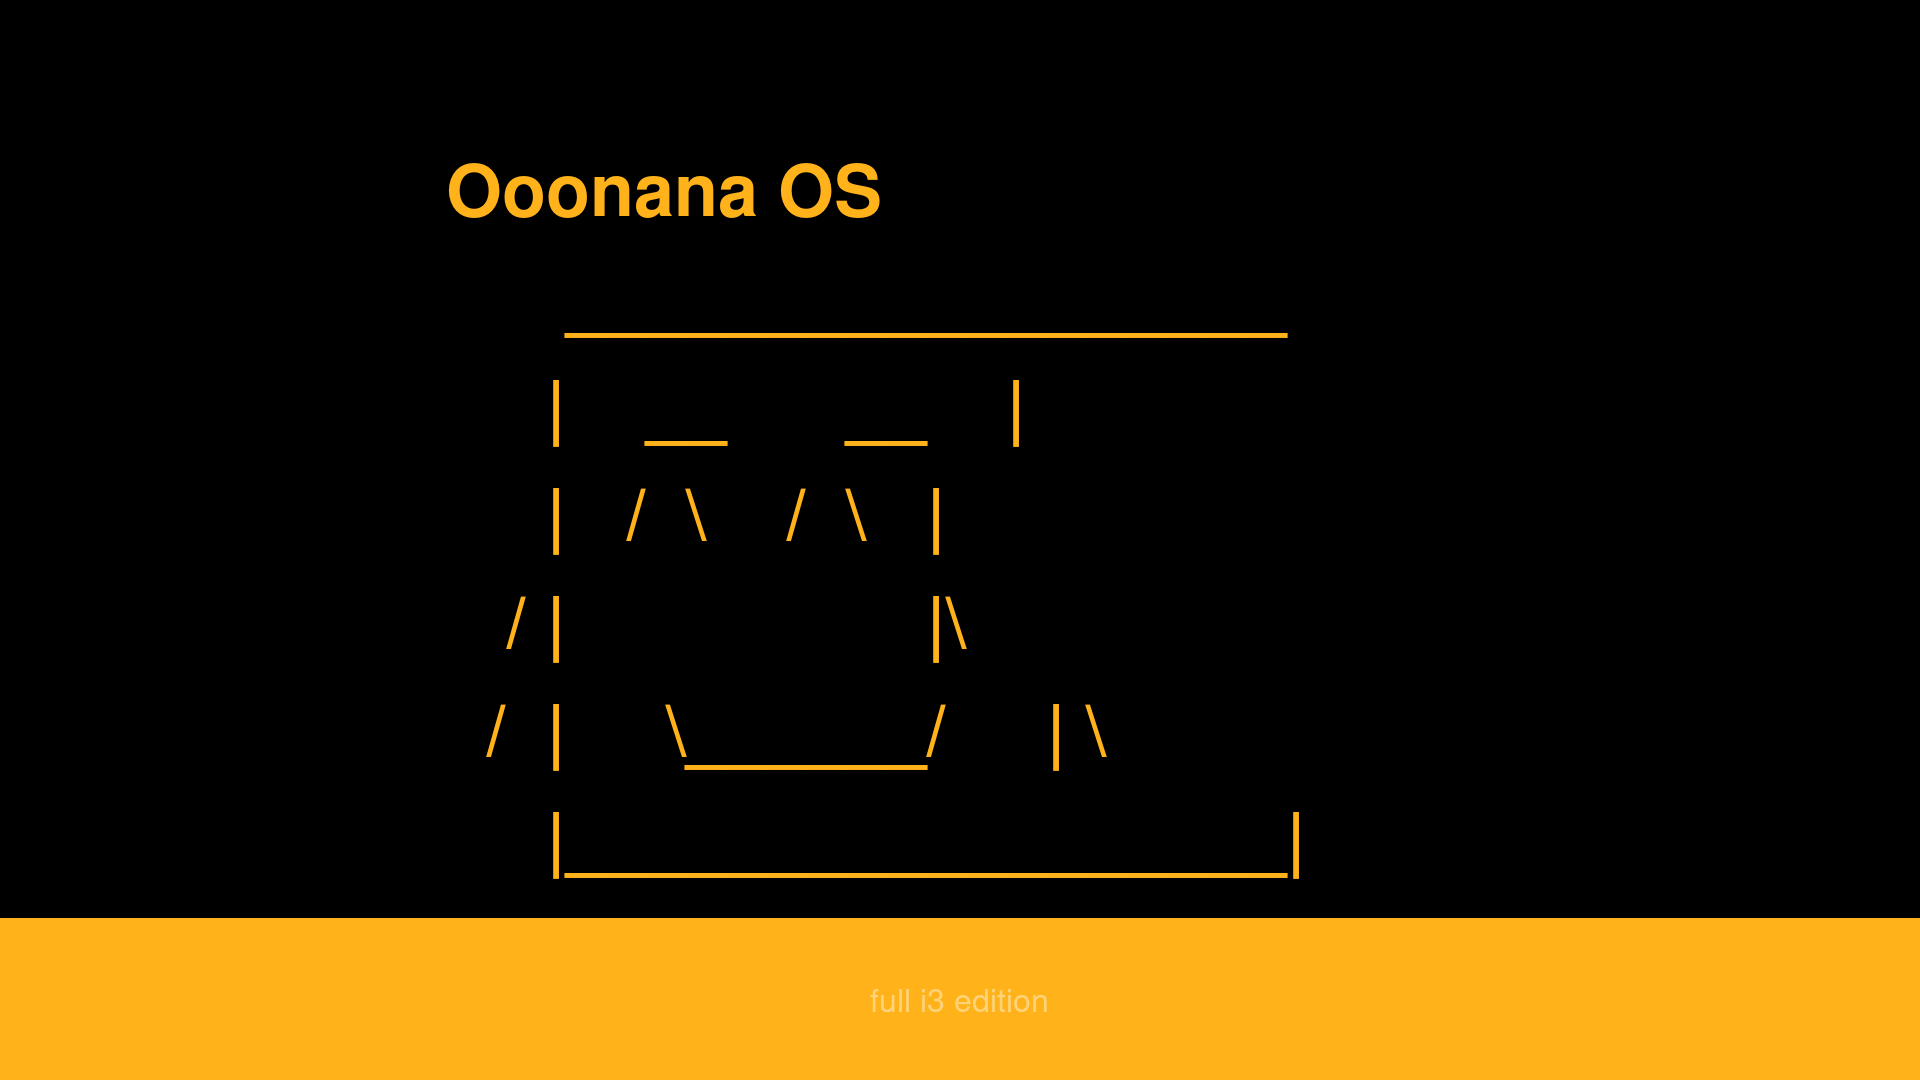
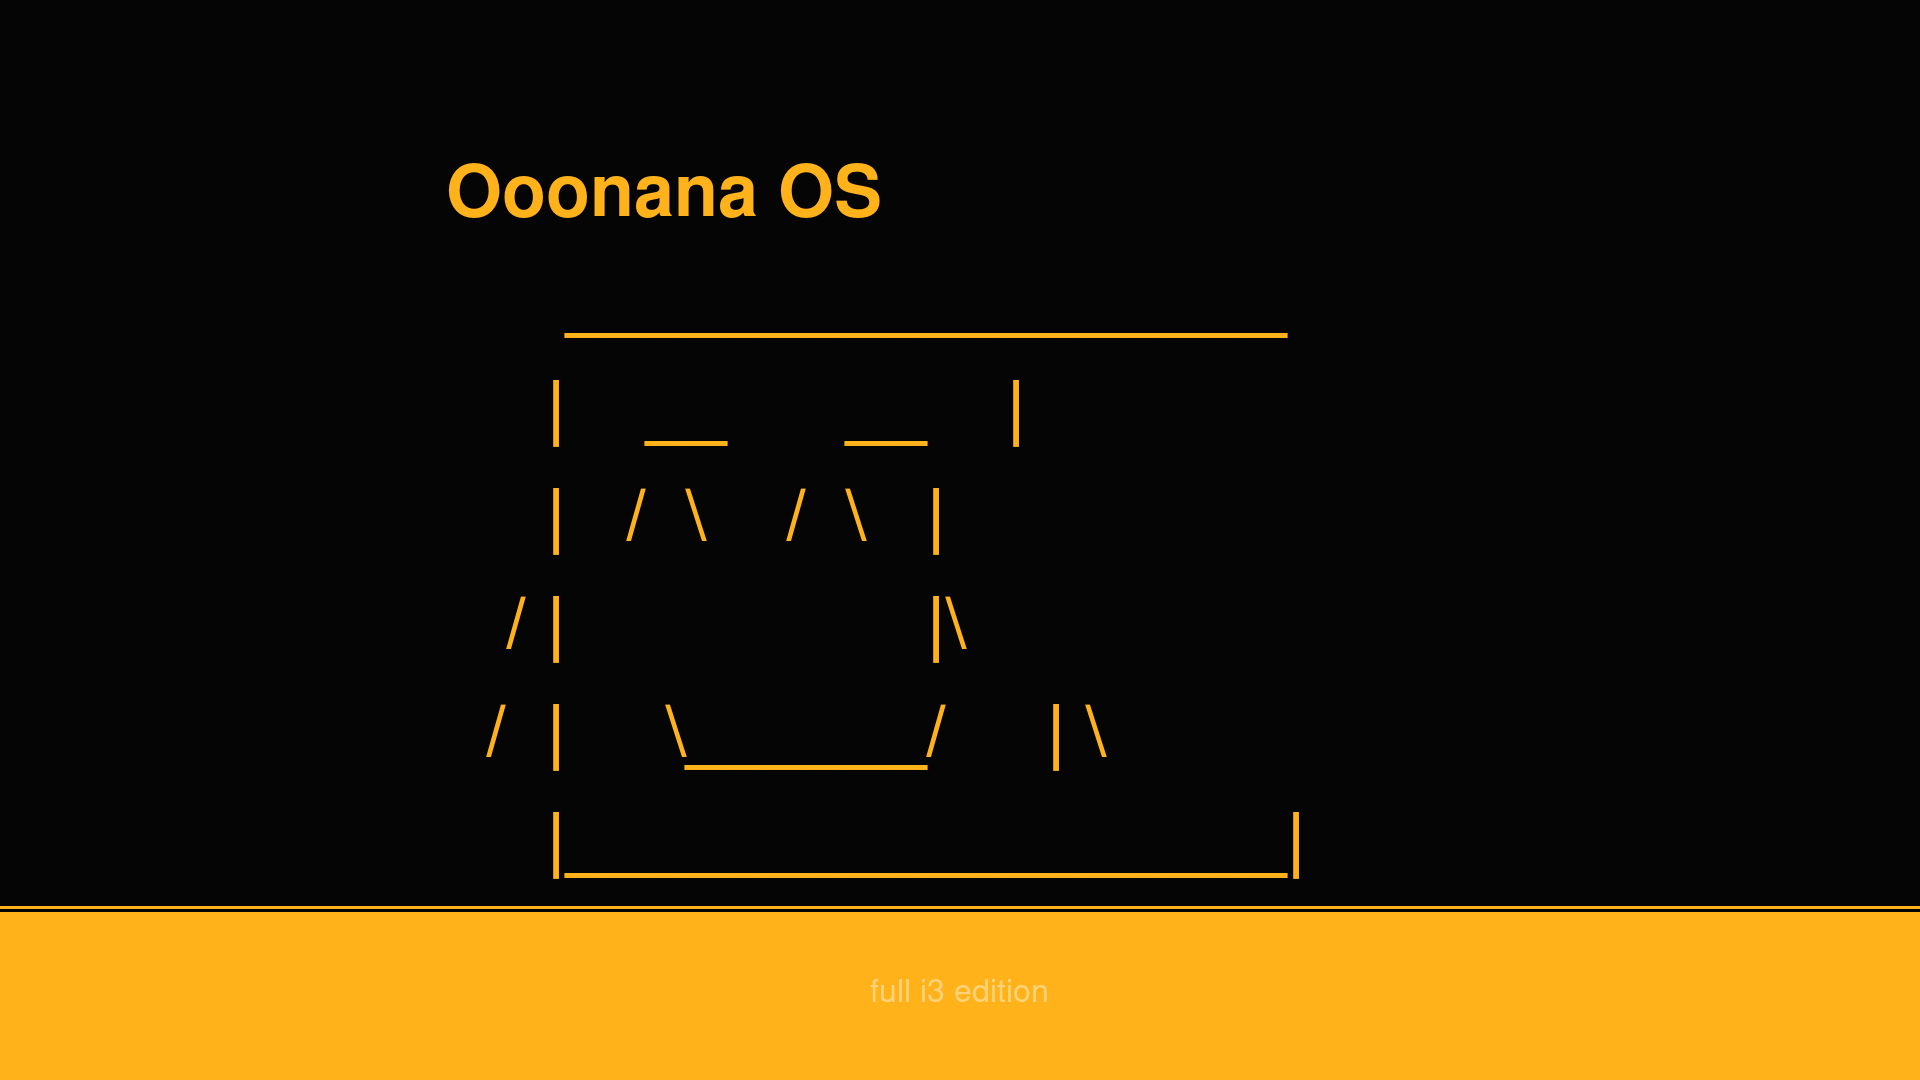
Improve Ooonana help and full i3 UI polish

Changed region(s): [[0.0, 0.825, 1.0, 0.8556], [0.4375, 0.8861, 0.5625, 0.9472]]

diff --git a/README.md b/README.md
@@ -233,6 +233,18 @@ ooonana purge nano             # remove files, marker, and Ooonana config dirs
 ooonana fix nano --reinstall   # resync repo and reinstall package
 ```
 
+Help is split by task so new users do not have to read one huge page:
+
+```bash
+ooonana help packages
+ooonana help get
+ooonana help upgrade
+ooonana help remove
+ooonana help repo
+ooonana help ai
+ooonana help ui
+```
+
 `ooonana get` installs from Ooonana repos only. To bring an Alpine package into Ooonana, build or publish an Ooonana repo first with `ooonana repo build` or `scripts/build-package-repo.sh`.
 
 Package metadata lives inside Ooonana:
@@ -418,11 +430,13 @@ The wizard opens in a themed xterm under i3, walks disk picker, user/password, h
 Default full-i3 UI is dark: black background, orange text/cursor. The old sunset look is light mode:
 
 ```bash
+ooonana help ui
+ooonana-theme-env toggle
 OOONANA_THEME=light ooonana-gui-installer
 OOONANA_THEME=light ooonana setup --first-boot --gui
 ```
 
-The installer persists the chosen theme in `/etc/ooonana/theme`; i3 reads it through `ooonana-theme-env` on boot.
+The installer persists the chosen theme in `/etc/ooonana/theme`; i3 reads it through `ooonana-theme-env` on boot. Inside i3, `Mod+Shift+T` toggles dark/light, `Mod+Shift+A` opens the Ooonana AI app, and `Mod+Shift+I` opens the installer.
 
 VMware note:
 